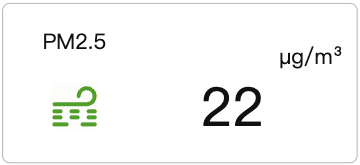
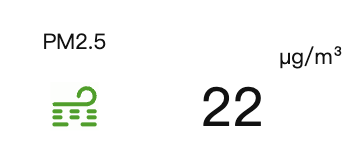
feat: #1533 modify device card selector style

Changed region(s): [[0.0, 0.0303, 1.0, 1.0], [0.0, 0.0, 0.9778, 0.0606]]

diff --git a/src/components/panel/ui/card-selector.vue b/src/components/panel/ui/card-selector.vue
@@ -208,22 +208,22 @@ onMounted(() => {
             <n-scrollbar style="height: 100%; padding: 4px">
               <div v-if="item1.tab === '设备'">
                 <n-grid :x-gap="10" :y-gap="10" cols="1 240:1 480:2 720:3">
-                  <n-gi v-for="item in webChartConfig" :key="item.data.cardId" class="min-w-240px">
+                  <n-gi v-for="item in webChartConfig" :key="item.data.cardId" class="min-w-240px p-4px">
                     <div
                       v-if="item.data.cardId.indexOf('chart') != -1"
-                      class="cursor-pointer overflow-hidden border rounded p-2px duration-200"
+                      class="cursor-pointer overflow-hidden border rounded p-0px duration-200"
                       :style="
                         item.data.cardId === state?.curCardData?.cardId
                           ? 'border-color: #2d3d88'
-                          : 'border-color: #f6f9f8'
+                          : 'border-color: #DEE0E5'
                       "
                       @click="selectCard(item.data)"
                     >
-                      <div class="text-center font-medium leading-8 dark:bg-zinc-900">
+                      <div class="text-center font-medium leading-8 dark:bg-zinc-900" style="background-color: #efefef">
                         {{ item.data.dataSource?.deviceSource?.[0]?.metricsName || $t(item.data.title) }}
                       </div>
-                      <div class="h-148px w-full">
-                        <img :src="getImagePath(item)" style="width: 100%; height: 100%; object-fit: contain" />
+                      <div class="h-148px w-full flex items-center justify-center p-8px">
+                        <img :src="getImagePath(item)" style="width: 90%; height: 100%; object-fit: contain" />
                       </div>
                     </div>
                   </n-gi>
@@ -235,9 +235,7 @@ onMounted(() => {
                     <div
                       class="cursor-pointer overflow-hidden border rounded p-0px duration-200"
                       :style="
-                        item.id === state?.curCardData?.cardId
-                          ? 'border-color: #2d3d88'
-                          : 'border-color: rgb(0, 249, 248)'
+                        item.id === state?.curCardData?.cardId ? 'border-color: #2d3d88' : 'border-color: #DEE0E5'
                       "
                       @click="selectFinalCard(item)"
                     >

diff --git a/src/components/panel/ui/card-render.vue b/src/components/panel/ui/card-render.vue
@@ -177,7 +177,7 @@ onUpdated(() => {
             :ref="el => (cardRefs[`card-${item.i}`] = el)"
             :data="item.data!"
             :view="isPreview"
-            class="h-full w-full overflow-x-hidden overflow-y-auto"
+            class="h-full w-full overflow-x-hidden"
           />
         </div>
       </GridItem>
